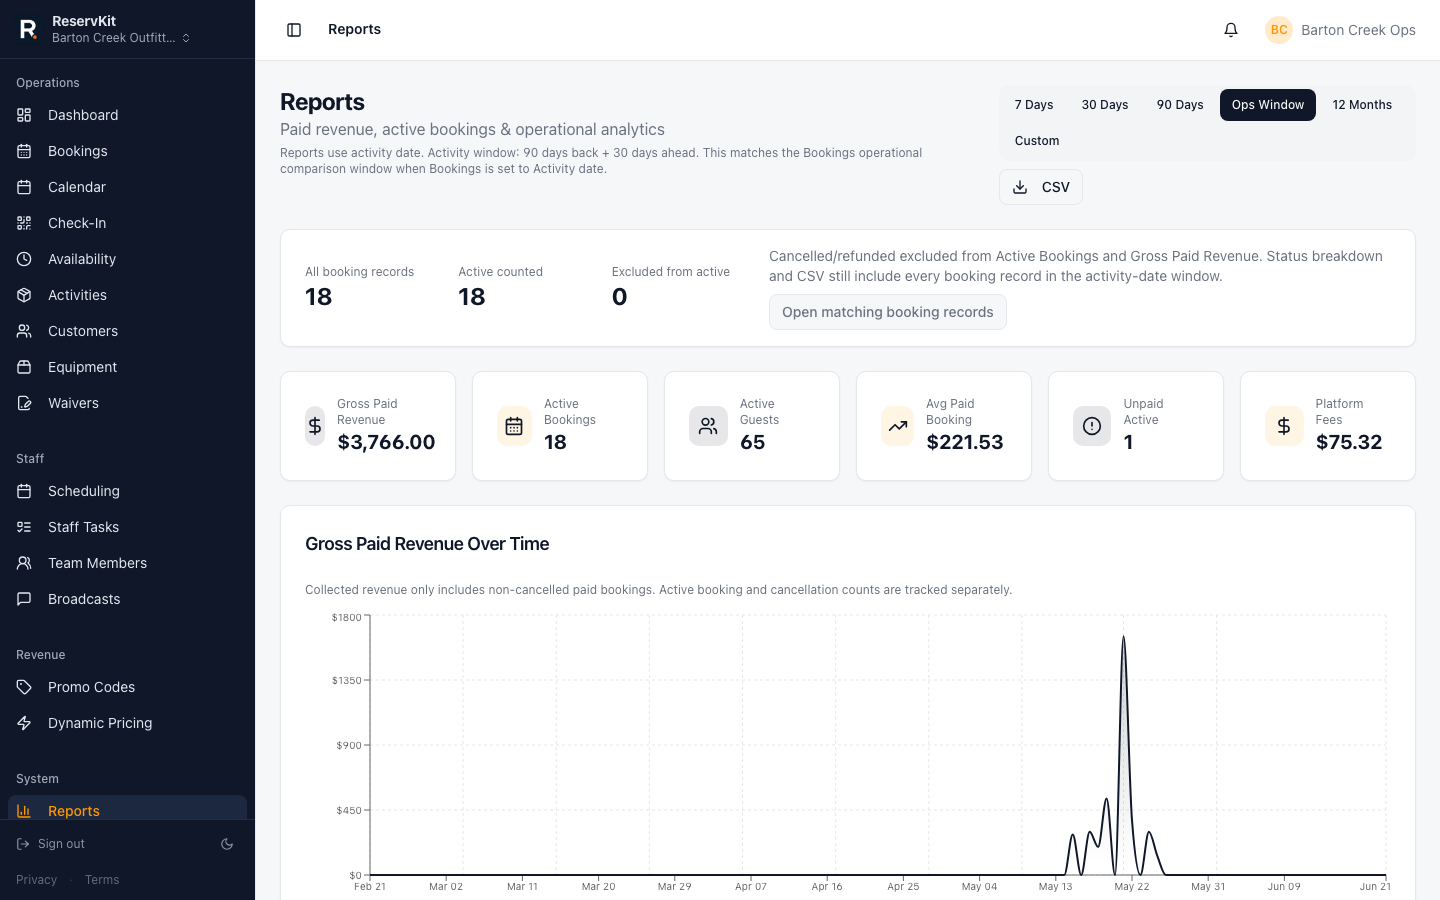
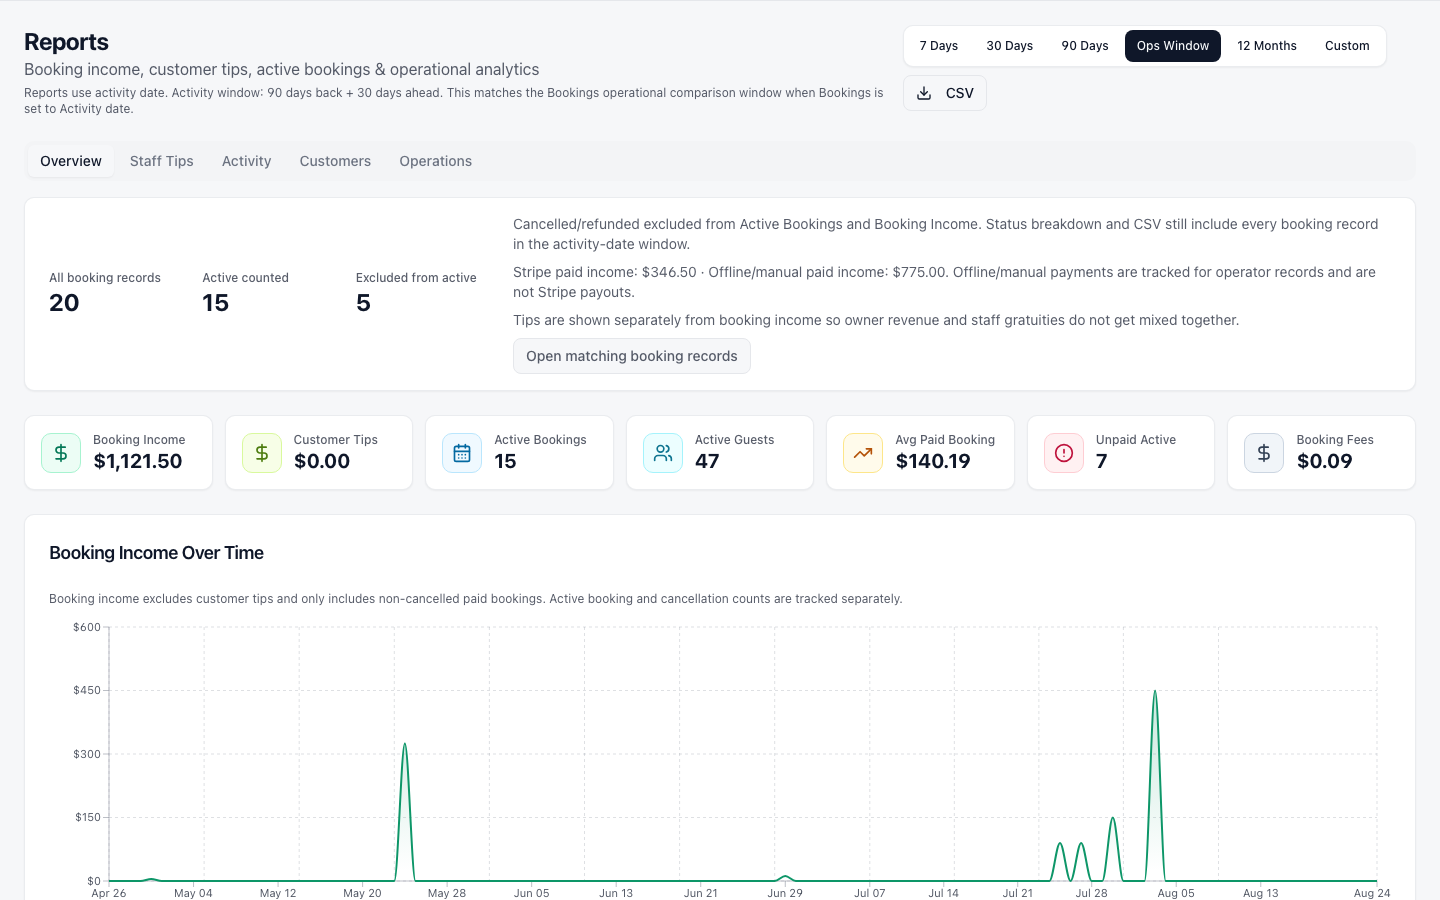
Refresh reports marketing screenshot

diff --git a/docs/PRODUCT_MEDIA_AUDIT_2026-07-25.md b/docs/PRODUCT_MEDIA_AUDIT_2026-07-25.md
@@ -7,12 +7,13 @@ Purpose: keep the public marketing site honest about product screenshots before 
 - Homepage product media uses real ReservKit UI captures from configured demo/operator workflows.
 - The public booking, Activities, Bookings, Check-In, Waivers, and Reports captures are usable as representative product proof, but they should not be described as always-current live screenshots.
 - Homepage copy now says the screenshots are real ReservKit screens from configured workflows and representative operator screens.
+- `public/product-reports.png` was replaced on 2026-07-25 with a current cropped Reports workspace capture that removes support-only navigation and avoids customer-identifying table data.
 
 ## Findings
 
 - `public/product-public-booking-live.png` shows a real public booking flow with configured activities. It is acceptable as a representative customer-flow screenshot.
 - `public/product-activities.png`, `public/product-bookings-dashboard.png`, `public/product-checkin-manifest.png`, and `public/product-waiver-status.png` show real operator UI and are acceptable for the current pre-launch site.
-- `public/product-reports.png` should be replaced before a heavier marketing push. It still shows older Reports labeling and layout compared with the current app direction around booking-fee language, Reports tabs, and Staff Tip Payout Review.
+- `public/product-reports.png` now shows the current Reports Overview tab, customer-tip separation, booking-fee language, activity-date window copy, and booking-income chart without exposing the support-only sidebar.
 
 ## Replacement Standard
 
@@ -26,4 +27,4 @@ Future public screenshots should be captured from a controlled demo organization
 
 ## Next Media Slice
 
-Recommended next product-media task: create a controlled screenshot set for Reports first, then refresh the homepage product tour as a batch only if the new Reports capture changes the visual rhythm of the section.
+Recommended next product-media task: review the remaining homepage product-tour images as a batch only if future app UI changes make them visibly stale. Do not capture from private owner/customer accounts.
